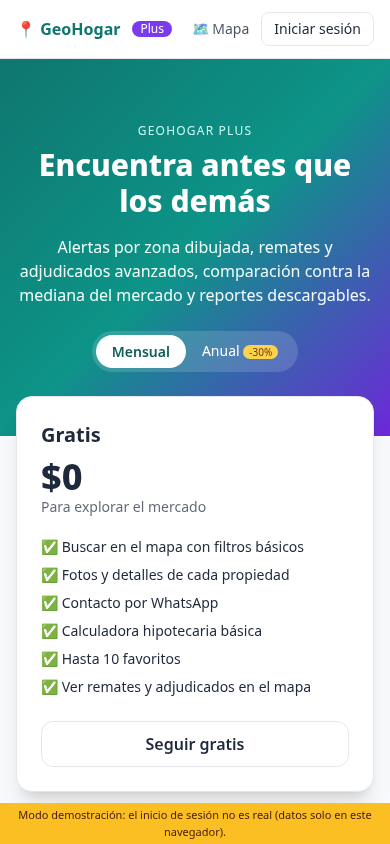
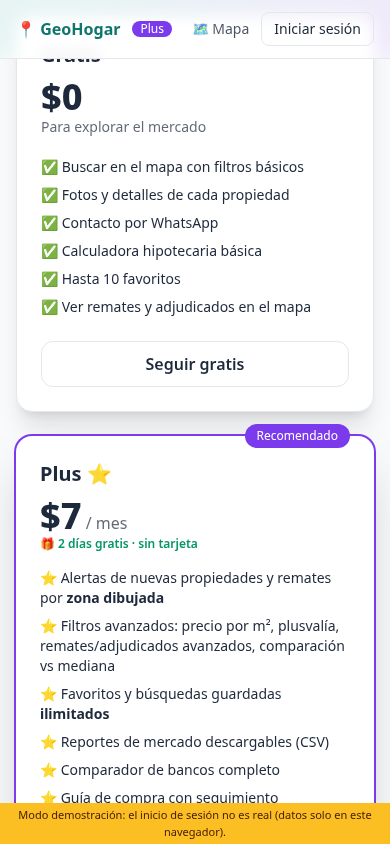
Prueba Plus gratis 2 días, Tilopay (config + Edge Function), precios confirmados

diff --git a/planes.html b/planes.html
@@ -15,30 +15,31 @@
    <ul class="mt-5 space-y-2 text-sm"><li>✅ Buscar en el mapa con filtros básicos</li><li>✅ Fotos y detalles de cada propiedad</li><li>✅ Contacto por WhatsApp</li><li>✅ Calculadora hipotecaria básica</li><li>✅ Hasta 10 favoritos</li><li>✅ Ver remates y adjudicados en el mapa</li></ul>
    <a href="index.html" class="mt-6 block text-center border rounded-xl py-2.5 font-semibold dark:border-slate-600">Seguir gratis</a></div>
   <div class="relative bg-white dark:bg-slate-800 rounded-2xl shadow-2xl p-6 ring-2 ring-violet-600"><span class="absolute -top-3 right-6 bg-violet-600 text-white text-xs rounded-full px-3 py-1">Recomendado</span>
-   <h2 class="text-xl font-bold">Plus ⭐</h2><p class="mt-2"><span id="precio" class="text-4xl font-extrabold"></span> <span id="per" class="opacity-70"></span></p><p class="text-[11px] text-amber-600 font-semibold" id="nota"></p>
+   <h2 class="text-xl font-bold">Plus ⭐</h2><p class="mt-2"><span id="precio" class="text-4xl font-extrabold"></span> <span id="per" class="opacity-70"></span></p><p class="text-xs text-emerald-600 font-semibold">🎁 2 días gratis · sin tarjeta</p><p id="trialBadge" class="hidden mt-2 text-xs bg-violet-100 dark:bg-violet-900/50 text-violet-800 dark:text-violet-200 rounded-full px-3 py-1 inline-block"></p>
    <ul class="mt-4 space-y-2 text-sm"><li>⭐ Alertas de nuevas propiedades y remates por <b>zona dibujada</b></li><li>⭐ Filtros avanzados: precio por m², plusvalía, remates/adjudicados avanzados, comparación vs mediana</li><li>⭐ Favoritos y búsquedas guardadas <b>ilimitados</b></li><li>⭐ Reportes de mercado descargables (CSV)</li><li>⭐ Comparador de bancos completo</li><li>⭐ Guía de compra con seguimiento</li><li>⭐ Propiedades destacadas para agentes</li></ul>
-   <button id="cta" class="mt-6 w-full bg-violet-600 hover:bg-violet-700 text-white rounded-xl py-3 font-bold">Probar Plus</button><p id="ctaMsg" class="text-xs mt-2 text-center"></p></div>
+   <button id="cta" class="mt-6 w-full bg-violet-600 hover:bg-violet-700 text-white rounded-xl py-3 font-bold">🎁 Prueba Plus gratis 2 días</button><div class="grid grid-cols-2 gap-2 mt-2"><button id="subM" class="border-2 border-violet-600 text-violet-700 dark:text-violet-300 rounded-xl py-2 text-sm font-semibold">Suscribirme mensual · $7</button><button id="subA" class="border-2 border-violet-600 text-violet-700 dark:text-violet-300 rounded-xl py-2 text-sm font-semibold">Suscribirme anual · $59</button></div><p class="text-[11px] text-center opacity-60 mt-1">Pago seguro con Tilopay · cancela cuando quieras</p><p id="ctaMsg" class="text-xs mt-2 text-center"></p></div>
  </div>
  <h2 class="text-2xl font-bold mt-14 mb-4 text-center">Comparación de funciones</h2>
  <div class="overflow-x-auto bg-white dark:bg-slate-800 rounded-2xl shadow"><table class="w-full text-sm"><thead class="bg-slate-100 dark:bg-slate-700"><tr><th class="text-left p-3">Función</th><th class="p-3">Gratis</th><th class="p-3 text-violet-600">Plus</th></tr></thead><tbody id="tabla"></tbody></table></div>
  <h2 class="text-2xl font-bold mt-14 mb-4 text-center">Preguntas frecuentes</h2>
  <div id="faq" class="max-w-3xl mx-auto space-y-2"></div>
- <div class="mt-14 text-center bg-gradient-to-r from-teal-600 to-violet-600 text-white rounded-2xl p-8"><h3 class="text-2xl font-bold">¿Listo para buscar con ventaja?</h3><button id="cta2" class="mt-4 bg-white text-violet-700 font-bold rounded-xl px-6 py-3">Probar Plus</button></div>
+ <div class="mt-14 text-center bg-gradient-to-r from-teal-600 to-violet-600 text-white rounded-2xl p-8"><h3 class="text-2xl font-bold">¿Listo para buscar con ventaja?</h3><button id="cta2" class="mt-4 bg-white text-violet-700 font-bold rounded-xl px-6 py-3">🎁 Prueba Plus gratis 2 días</button><p class="text-xs mt-2 text-white/80">Sin tarjeta. Al terminar vuelves a Gratis automáticamente.</p></div>
 </main>
 <script>
 const $=i=>document.getElementById(i),P=GH_CONFIG.precios;let per='mensual';
 const ah=Math.round((1-P.anual/(P.mensual*12))*100);$('ahorro').textContent='-'+ah+'%';
 function upd(){document.querySelectorAll('.per').forEach(b=>b.className='per rounded-full px-4 py-1.5 '+(b.dataset.p===per?'bg-white text-teal-800 font-semibold':''));
- $('precio').textContent='$'+(per==='mensual'?P.mensual:P.anual);$('per').textContent=per==='mensual'?'/ mes':'/ año (≈ $'+(P.anual/12).toFixed(2)+'/mes)';$('nota').textContent='* '+P.nota+' ('+P.moneda+'); el precio final se definirá al lanzar.'}
+ $('precio').textContent='$'+(per==='mensual'?P.mensual:P.anual);$('per').textContent=per==='mensual'?'/ mes':'/ año (≈ $'+(P.anual/12).toFixed(2)+'/mes)'}
 document.querySelectorAll('.per').forEach(b=>b.onclick=()=>{per=b.dataset.p;upd()});upd();
 const F=[['Mapa con propiedades, remates y adjudicados','✅','✅'],['Fotos, detalles y WhatsApp','✅','✅'],['Calculadora hipotecaria','Básica','Completa + comparador de todos los bancos'],['Favoritos','Hasta 10','Ilimitados'],['Búsquedas guardadas','—','Ilimitadas'],['Alertas por zona dibujada (propiedades y remates)','—','✅'],['Filtros de remates/adjudicados (fecha, base máx., gravámenes, descuento)','—','✅'],['Precio por m² y comparación vs mediana','—','✅'],['Capa de plusvalía avanzada','—','✅'],['Reportes de mercado descargables','—','✅ CSV'],['Guía de compra con seguimiento','Checklist','Checklist + seguimiento por propiedad'],['Propiedades destacadas (agentes)','—','✅']];
 $('tabla').innerHTML=F.map(([a,b,c],i)=>`<tr class="${i%2?'bg-slate-50 dark:bg-slate-800/60':''}"><td class="p-3">${a}</td><td class="p-3 text-center">${b}</td><td class="p-3 text-center font-semibold text-violet-700 dark:text-violet-300">${c}</td></tr>`).join('');
-const Q=[['¿Puedo cancelar cuando quiera?','Sí. Al cancelar conservas Plus hasta el final del periodo pagado y luego vuelves al plan Gratis sin perder tus favoritos (los primeros 10 siguen visibles).'],['¿Qué medios de pago aceptan?','El cobro se hará con un proveedor externo (Stripe, PayPal o Tilopay); GeoHogar no guarda datos de tarjeta.'],['¿Los precios son definitivos?','No. Los montos mostrados son precios de ejemplo mientras se lanza el servicio.'],['¿Las alertas funcionan para remates?','Sí: dibujas una zona en el mapa y te avisamos por correo cuando aparezcan propiedades o remates nuevos dentro de ella.'],['¿Los datos son oficiales?','Provienen de portales públicos (Encuentra24, Anuntico, edictos de remates y bancos). Siempre confirma en la fuente original y con un abogado.'],['¿Qué pasa con mis datos?','Tu cuenta solo guarda correo, favoritos, búsquedas y alertas. Puedes borrarla cuando quieras desde tu cuenta.']];
+const Q=[['¿Cómo funciona la prueba gratis?','Inicia sesión y toca «Prueba Plus gratis 2 días»: tienes todas las funciones Plus durante 48 horas, sin tarjeta. Es una sola prueba por cuenta. Al terminar vuelves al plan Gratis automáticamente (no se cobra nada); tus favoritos y búsquedas quedan guardados.'],['¿Puedo cancelar cuando quiera?','Sí. Al cancelar conservas Plus hasta el final del periodo pagado y luego vuelves al plan Gratis sin perder tus favoritos (los primeros 10 siguen visibles).'],['¿Qué medios de pago aceptan?','Tarjetas de crédito y débito mediante Tilopay (Costa Rica), con cobro recurrente mensual ($7) o anual ($59). GeoHogar no guarda datos de tarjeta.'],['¿Las alertas funcionan para remates?','Sí: dibujas una zona en el mapa y te avisamos por correo cuando aparezcan propiedades o remates nuevos dentro de ella.'],['¿Los datos son oficiales?','Provienen de portales públicos (Encuentra24, Anuntico, edictos de remates y bancos). Siempre confirma en la fuente original y con un abogado.'],['¿Qué pasa con mis datos?','Tu cuenta solo guarda correo, favoritos, búsquedas y alertas. Puedes borrarla cuando quieras desde tu cuenta.']];
 $('faq').innerHTML=Q.map(([q,a])=>`<details class="bg-white dark:bg-slate-800 rounded-xl p-4 shadow-sm"><summary class="font-semibold cursor-pointer">${q}</summary><p class="text-sm mt-2 opacity-80">${a}</p></details>`).join('');
-async function cta(){const u=await Auth.user();if(!u){location.href='login.html?next=planes.html#registro';return}
- if(GH_CONFIG.checkoutUrl){location.href=GH_CONFIG.checkoutUrl+(GH_CONFIG.checkoutUrl.includes('?')?'&':'?')+'client_reference_id='+encodeURIComponent(u.id)+'&prefilled_email='+encodeURIComponent(u.email)+'&plan='+per;return}
- if(Auth.demo){await Auth.setDemoPlan('plus');$('ctaMsg').textContent='Modo demo: Plus activado en este navegador (sin cobro).';$('ctaMsg').className='text-xs mt-2 text-center text-emerald-600';setTimeout(()=>location.href='cuenta.html',900)}
- else $('ctaMsg').textContent='El pago aún no está configurado (CONFIG.checkoutUrl).'}
-$('cta').onclick=cta;$('cta2').onclick=cta;
-Auth.user().then(u=>{if(u){$('acct').textContent=(u.plan==='plus'?'⭐ ':'')+u.nombre;$('acct').href='cuenta.html';if(u.plan==='plus'){$('cta').textContent='Ya tienes Plus ✓';}}});Auth.banner();
+const msg=(t,ok)=>{$('ctaMsg').textContent=t;$('ctaMsg').className='text-xs mt-2 text-center '+(ok?'text-emerald-600':'text-red-600')};
+async function cta(){try{const u=await Auth.user();if(!u){location.href='login.html?next=planes.html#registro';return}
+ if(u.pagado){location.href='cuenta.html';return}
+ await Auth.startTrial();msg('¡Prueba activada! Tienes Plus por 2 días.',true);setTimeout(()=>location.href='index.html',1000)}catch(e){msg(e.message)}}
+async function sub(p){try{const r=await Auth.subscribe(p);if(r==='demo'){msg('Modo demo: suscripción '+p+' simulada (sin cobro).',true);setTimeout(()=>location.href='cuenta.html',900)}}catch(e){msg(e.message)}}
+$('cta').onclick=cta;$('cta2').onclick=cta;$('subM').onclick=()=>sub('mensual');$('subA').onclick=()=>sub('anual');
+Auth.user().then(u=>{if(u){$('acct').textContent=(u.plan==='plus'?'⭐ ':'')+u.nombre;$('acct').href='cuenta.html';if(u.pagado){$('cta').textContent='Ya tienes Plus ✓ — ver mi cuenta'}else if(u.trial_activo){$('cta').textContent='Prueba activa ✓';$('cta').disabled=true;$('trialBadge').textContent='⏳ '+Auth.pruebaTexto(u);$('trialBadge').classList.remove('hidden')}else if(u.trial_used){$('cta').textContent='Prueba ya utilizada · suscríbete abajo';$('cta').disabled=true;$('cta').classList.add('opacity-60');$('cta2').textContent='Suscribirme';$('cta2').onclick=()=>sub(per)}}});Auth.banner();
 </script></body></html>

diff --git a/index.html b/index.html
@@ -19,7 +19,7 @@
  <div class="flex gap-2 items-center">
   <b class="text-teal-700 dark:text-teal-400 whitespace-nowrap">📍 GeoHogar</b>
   <input id="q" placeholder="Ciudad, provincia o zona…" class="flex-1 min-w-0 px-3 py-1.5 rounded-lg border dark:bg-slate-700 dark:border-slate-600">
-  <span id="upd" class="hidden sm:inline text-[10px] bg-teal-100 dark:bg-teal-900 text-teal-800 dark:text-teal-200 px-2 py-0.5 rounded-full whitespace-nowrap"></span><a href="planes.html" id="bPlus" class="px-2 py-1.5 rounded-lg bg-violet-600 text-white whitespace-nowrap text-xs font-semibold">⭐<span class="hidden sm:inline"> Plus</span></a><a href="login.html" id="bUser" class="px-2 py-1.5 rounded-lg border dark:border-slate-600 whitespace-nowrap flex items-center gap-1" title="Cuenta">👤<span class="hidden lg:inline text-xs">Entrar</span></a><button id="bGuide" class="px-2 py-1.5 rounded-lg border dark:border-slate-600 whitespace-nowrap" title="Guía de compra">📋<span class="hidden lg:inline"> Guía de compra</span></button><button id="tgFilters" class="md:hidden px-2 py-1.5 rounded-lg border dark:border-slate-600" aria-label="Filtros">⚙</button>
+  <span id="upd" class="hidden sm:inline text-[10px] bg-teal-100 dark:bg-teal-900 text-teal-800 dark:text-teal-200 px-2 py-0.5 rounded-full whitespace-nowrap"></span><a href="cuenta.html" id="bTrial" class="hidden px-2 py-1 rounded-full bg-violet-100 dark:bg-violet-900/60 text-violet-800 dark:text-violet-200 whitespace-nowrap text-[11px] font-semibold"></a><a href="planes.html" id="bPlus" class="px-2 py-1.5 rounded-lg bg-violet-600 text-white whitespace-nowrap text-xs font-semibold">⭐<span class="hidden sm:inline"> Plus</span></a><a href="login.html" id="bUser" class="px-2 py-1.5 rounded-lg border dark:border-slate-600 whitespace-nowrap flex items-center gap-1" title="Cuenta">👤<span class="hidden lg:inline text-xs">Entrar</span></a><button id="bGuide" class="px-2 py-1.5 rounded-lg border dark:border-slate-600 whitespace-nowrap" title="Guía de compra">📋<span class="hidden lg:inline"> Guía de compra</span></button><button id="tgFilters" class="md:hidden px-2 py-1.5 rounded-lg border dark:border-slate-600" aria-label="Filtros">⚙</button>
   <button id="tgDark" class="px-2 py-1.5 rounded-lg border dark:border-slate-600" aria-label="Modo oscuro">🌓</button>
  </div>
  <div id="filters" class="hidden md:flex flex-wrap gap-2 items-center mt-2">
@@ -287,11 +287,15 @@ const App={all:[],visible:[],
 const Plus={user:null,plus:false,favs:[],rf:null,
  async init(){this.user=await Auth.user();this.plus=!!this.user&&this.user.plan==='plus';this.favs=await Auth.favoritos();
   const b=$('bUser');if(this.user){b.href='cuenta.html';b.innerHTML=`<span class="w-6 h-6 rounded-full ${this.plus?'bg-violet-600':'bg-teal-600'} text-white text-xs font-bold flex items-center justify-center">${esc(this.user.nombre[0].toUpperCase())}</span><span class="hidden lg:inline text-xs">${esc(this.user.nombre)}${this.plus?' ⭐':''}</span>`}
-  if(this.plus){$('bPlus').innerHTML='⭐<span class="hidden sm:inline"> Plus activo</span>';document.querySelectorAll('.lk').forEach(x=>x.remove())}
-  $('bSave').onclick=()=>this.gate('Búsquedas guardadas y alertas por zona',()=>this.save());$('bRep').onclick=()=>this.gate('Reportes de mercado descargables',()=>this.report());
+  const t=$('bTrial');if(this.user&&this.user.trial_activo){t.textContent='⏳ Te quedan '+Auth.horasPrueba(this.user)+' h de prueba';t.title=Auth.pruebaTexto(this.user);t.classList.remove('hidden');
+   clearTimeout(this._tt);this._tt=setTimeout(()=>location.reload(),Math.min(new Date(this.user.trial_ends_at)-Date.now()+1000,36e5))}else t.classList.add('hidden');
+  if(this.user&&this.user.trial_used&&!this.plus&&localStorage.getItem('gh_trial_fin_visto')!==this.user.email){localStorage.setItem('gh_trial_fin_visto',this.user.email);setTimeout(()=>this.upsell('Tu prueba de 2 días terminó. Volviste al plan Gratis;',true),1500)}
+  if(this.plus){$('bPlus').innerHTML=this.user.trial_activo?'⭐<span class="hidden sm:inline"> Suscribirme</span>':'⭐<span class="hidden sm:inline"> Plus activo</span>';document.querySelectorAll('.lk').forEach(x=>x.remove())}
+  if(this._ok)return;this._ok=1;$('bSave').onclick=()=>this.gate('Búsquedas guardadas y alertas por zona',()=>this.save());$('bRep').onclick=()=>this.gate('Reportes de mercado descargables',()=>this.report());
   $('bRemAdv').onclick=()=>this.gate('Filtros avanzados de remates y adjudicados',()=>this.remAdv());Auth.banner()},
- upsell(f){UI.modal(`<div class="text-center"><div class="text-5xl">🔒</div><h2 class="text-xl font-bold mt-2">${esc(f)} es parte de GeoHogar Plus</h2><p class="text-sm opacity-80 mt-2">Alertas por zona dibujada, filtros avanzados, favoritos ilimitados, reportes y más.</p>
-  <div class="mt-4 flex gap-2 justify-center"><a href="planes.html" class="bg-violet-600 text-white rounded-xl px-4 py-2 font-semibold">Ver planes ⭐</a>${this.user?'':'<a href="login.html?next=index.html" class="border rounded-xl px-4 py-2">Iniciar sesión</a>'}</div>${Auth.demo?'<p class="text-[11px] mt-3 text-amber-600">Modo demo: puedes activar Plus gratis desde la página de planes.</p>':''}</div>`)},
+ upsell(f,fin){const u=this.user,trial=!u||!u.trial_used;UI.modal(`<div class="text-center"><div class="text-5xl">${fin?'⏰':'🔒'}</div><h2 class="text-xl font-bold mt-2">${esc(f)} ${fin?'sigue con Plus por $7/mes':'es parte de GeoHogar Plus'}</h2><p class="text-sm opacity-80 mt-2">Alertas por zona dibujada, filtros avanzados, favoritos ilimitados, reportes y más.</p>
+  <div class="mt-4 flex flex-wrap gap-2 justify-center">${trial?`<button id="upTrial" class="bg-violet-600 text-white rounded-xl px-4 py-2 font-semibold">🎁 Prueba Plus gratis 2 días</button><a href="planes.html" class="border rounded-xl px-4 py-2">Ver planes</a>`:`<a href="planes.html" class="bg-violet-600 text-white rounded-xl px-4 py-2 font-semibold">Suscribirme · $7/mes o $59/año</a>`}</div><p class="text-[11px] mt-2 opacity-70">${trial?'Sin tarjeta · una prueba por cuenta'+(u?'':' · requiere iniciar sesión'):'Pago seguro con Tilopay'}</p><p id="upMsg" class="text-xs mt-1 text-red-600"></p></div>`);
+  $('upTrial')&&($('upTrial').onclick=async()=>{if(!this.user){location.href='login.html?next=index.html#registro';return}try{await Auth.startTrial();UI.close();await this.init()}catch(e){$('upMsg').textContent=e.message}})},
  gate(f,fn){this.plus?fn():this.upsell(f)},
  heart(p){const on=this.favs.includes(p.id);return `<button id="cFav" class="absolute top-2 right-12 bg-white/90 rounded-full w-8 h-8 text-lg" title="Favorito">${on?'❤':'🤍'}</button>`},
  async fav(p){try{const on=await Auth.toggleFavorito(p.id);this.favs=await Auth.favoritos();$('cFav').textContent=on?'❤':'🤍'}

diff --git a/js/auth.js b/js/auth.js
@@ -2,7 +2,7 @@
 (function () {
   const C = window.GH_CONFIG || {};
   const DEMO = !(C.supabaseUrl && C.supabaseAnonKey);
-  const K = { s: 'gh_demo_session', u: 'gh_demo_users', fav: 'gh_favoritos', bus: 'gh_busquedas' };
+  const K = { tr: 'gh_demo_trials', s: 'gh_demo_session', u: 'gh_demo_users', fav: 'gh_favoritos', bus: 'gh_busquedas' };
   let sb = null;
   const j = (k, d) => { try { return JSON.parse(localStorage.getItem(k)) ?? d } catch { return d } };
   const listeners = [];
@@ -20,11 +20,14 @@
     demo: DEMO,
     onChange(f) { listeners.push(f) },
     async user() {
-      if (DEMO) { const s = j(K.s, null); return s ? { ...s, demo: true } : null }
+      if (DEMO) { const s = j(K.s, null); if (!s) return null; const t = j(K.tr, {})[s.email]; const ends = t ? new Date(t) : null;
+        const pago = s.plan === 'plus' && (!s.plus_until || new Date(s.plus_until) > new Date()); const trial = !!ends && ends > new Date();
+        return { ...s, demo: true, trial_used: !!t, trial_ends_at: t || null, trial_activo: trial && !pago, pagado: pago, plan: pago || trial ? 'plus' : 'gratis' } }
       const c = await sbClient(); const { data } = await c.auth.getUser(); const u = data.user; if (!u) return null;
-      const { data: p } = await c.from('profiles').select('plan,plus_until,nombre').eq('id', u.id).maybeSingle();
-      const plus = p && p.plan === 'plus' && (!p.plus_until || new Date(p.plus_until) > new Date());
-      return { id: u.id, email: u.email, nombre: (p && p.nombre) || u.email.split('@')[0], plan: plus ? 'plus' : 'gratis' };
+      const { data: p } = await c.from('profiles').select('plan,plus_until,nombre,trial_used,trial_ends_at').eq('id', u.id).maybeSingle();
+      const pago = !!p && p.plan === 'plus' && (!p.plus_until || new Date(p.plus_until) > new Date());
+      const trial = !!p && !!p.trial_ends_at && new Date(p.trial_ends_at) > new Date();
+      return { id: u.id, email: u.email, nombre: (p && p.nombre) || u.email.split('@')[0], plan: pago || trial ? 'plus' : 'gratis', pagado: pago, trial_activo: trial && !pago, trial_used: !!(p && p.trial_used), trial_ends_at: p && p.trial_ends_at, plus_until: p && p.plus_until };
     },
     async signUp(email, password, nombre) {
       if (DEMO) { const us = j(K.u, {}); if (us[email]) throw new Error('Ya existe una cuenta demo con ese correo.'); us[email] = { password, nombre }; localStorage.setItem(K.u, JSON.stringify(us)); return this._demoLogin(email) }
@@ -49,7 +52,22 @@
     async signOut() { if (DEMO) localStorage.removeItem(K.s); else await (await sbClient()).auth.signOut(); emit() },
     _demoLogin(email) { const us = j(K.u, {}); const prev = j(K.s, {}) || {}; localStorage.setItem(K.s, JSON.stringify({ id: 'demo-' + email, email, nombre: (us[email] && us[email].nombre) || email.split('@')[0], plan: prev.email === email ? prev.plan || 'gratis' : 'gratis' })); emit(); return 'ok' },
     async isPlus() { const u = await this.user(); return !!u && u.plan === 'plus' },
-    async setDemoPlan(plan) { const s = j(K.s, null); if (!s) throw new Error('Inicia sesión primero.'); s.plan = plan; localStorage.setItem(K.s, JSON.stringify(s)); emit() },
+    async startTrial() {
+      const u = await this.user(); if (!u) { const e = new Error('Inicia sesión para empezar la prueba.'); e.code = 'LOGIN'; throw e }
+      if (u.trial_used) throw new Error('Ya usaste tu prueba gratis de Plus en esta cuenta.');
+      if (DEMO) { const t = j(K.tr, {}); t[u.email] = new Date(Date.now() + (C.pruebaDias || 2) * 864e5).toISOString(); localStorage.setItem(K.tr, JSON.stringify(t)); emit(); return t[u.email] }
+      const { data, error } = await (await sbClient()).rpc('start_trial'); if (error) throw error; emit(); return data;
+    },
+    horasPrueba(u) { return u && u.trial_activo ? Math.max(0, Math.ceil((new Date(u.trial_ends_at) - Date.now()) / 36e5)) : 0 },
+    pruebaTexto(u) { const h = this.horasPrueba(u); return h > 24 ? `Te quedan ${h} h de prueba (${Math.floor(h / 24)} d ${h % 24} h)` : `Te quedan ${h} h de prueba` },
+    async subscribe(periodo) {
+      const u = await this.user(); if (!u) { location.href = 'login.html?next=planes.html#registro'; return 'login' }
+      const url = (C.tilopay || {})[periodo === 'anual' ? 'anualUrl' : 'mensualUrl'];
+      if (url) { location.href = url + (url.includes('?') ? '&' : '?') + 'email=' + encodeURIComponent(u.email); return 'redirect' }
+      if (DEMO) { const s = j(K.s, {}); s.plan = 'plus'; s.plus_until = new Date(Date.now() + (periodo === 'anual' ? 365 : 30) * 864e5).toISOString(); localStorage.setItem(K.s, JSON.stringify(s)); emit(); return 'demo' }
+      throw new Error('El pago con Tilopay aún no está configurado (GH_CONFIG.tilopay).');
+    },
+    async setDemoPlan(plan) { const s = j(K.s, null); if (!s) throw new Error('Inicia sesión primero.'); s.plan = plan; if (plan === 'gratis') { delete s.plus_until; const t = j(K.tr, {}); if (t[s.email]) { t[s.email] = new Date(0).toISOString(); localStorage.setItem(K.tr, JSON.stringify(t)) } } localStorage.setItem(K.s, JSON.stringify(s)); emit() },
     /* Favoritos (local en demo / tabla favoritos en Supabase) */
     async favoritos() {
       if (DEMO) return j(K.fav, []);

diff --git a/cuenta.html b/cuenta.html
@@ -7,13 +7,14 @@ const $=i=>document.getElementById(i);
 async function render(){const u=await Auth.user();if(!u){location.href='login.html?next=cuenta.html';return}
  const favs=await Auth.favoritos(),bus=await Auth.busquedas(),plus=u.plan==='plus';
  $('m').innerHTML=`<section class="bg-white dark:bg-slate-800 rounded-2xl shadow p-5 flex items-center gap-4"><div class="w-14 h-14 rounded-full bg-teal-600 text-white flex items-center justify-center text-2xl font-bold">${u.nombre[0].toUpperCase()}</div><div><h1 class="text-xl font-bold">${u.nombre}</h1><p class="text-sm opacity-70">${u.email}</p></div><span class="ml-auto text-sm rounded-full px-3 py-1 ${plus?'bg-violet-600 text-white':'bg-slate-200 dark:bg-slate-700'}">${plus?'⭐ Plus':'Gratis'}</span></section>
- <section class="bg-white dark:bg-slate-800 rounded-2xl shadow p-5"><h2 class="font-bold">Plan</h2><p class="text-sm mt-1">${plus?'Tienes GeoHogar Plus activo.':'Estás en el plan Gratis (hasta '+GH_CONFIG.limiteFavoritosGratis+' favoritos).'}</p>
-  <div class="mt-3 flex gap-2">${plus?(Auth.demo?'<button id="down" class="border rounded-lg px-3 py-1.5 text-sm">Volver a Gratis (demo)</button>':''):'<a href="planes.html" class="bg-violet-600 text-white rounded-lg px-3 py-1.5 text-sm">Mejorar a Plus</a>'}</div></section>
+ <section class="bg-white dark:bg-slate-800 rounded-2xl shadow p-5"><h2 class="font-bold">Plan</h2>${u.trial_activo?`<div class="mt-2 rounded-xl bg-violet-100 dark:bg-violet-900/50 text-violet-800 dark:text-violet-200 p-3 text-sm">⏳ <b>${Auth.pruebaTexto(u)}</b> · termina el ${new Date(u.trial_ends_at).toLocaleString('es-CR')} — luego vuelves a Gratis sin cobro.</div>`:''}
+  <p class="text-sm mt-2">${u.pagado?'Tienes GeoHogar Plus activo'+(u.plus_until?' hasta el '+new Date(u.plus_until).toLocaleDateString('es-CR'):'')+'.':u.trial_activo?'Estás probando Plus gratis.':'Estás en el plan Gratis (hasta '+GH_CONFIG.limiteFavoritosGratis+' favoritos).'+(u.trial_used?' Tu prueba gratis ya fue utilizada.':'')}</p>
+  <div class="mt-3 flex flex-wrap gap-2">${u.pagado?(Auth.demo?'<button id="down" class="border rounded-lg px-3 py-1.5 text-sm">Volver a Gratis (demo)</button>':'<span class="text-xs opacity-70">Para cancelar, usa el enlace de tu correo de Tilopay o escríbenos.</span>'):(!u.trial_used?'<button id="trial" class="bg-violet-600 text-white rounded-lg px-3 py-1.5 text-sm">🎁 Prueba Plus gratis 2 días</button>':'')+'<a href="planes.html" class="border border-violet-600 text-violet-700 dark:text-violet-300 rounded-lg px-3 py-1.5 text-sm">Suscribirme · $7/mes o $59/año</a>'+(Auth.demo&&u.trial_activo?'<button id="down" class="border rounded-lg px-3 py-1.5 text-sm">Terminar prueba (demo)</button>':'')}</div></section>
  <section class="bg-white dark:bg-slate-800 rounded-2xl shadow p-5"><h2 class="font-bold">❤ Favoritos (${favs.length}${plus?'':' / '+GH_CONFIG.limiteFavoritosGratis})</h2><p class="text-sm opacity-70 mt-1">${favs.length?favs.slice(0,30).join(', '):'Aún no tienes favoritos: toca el corazón en la ficha de una propiedad.'}</p></section>
  <section class="bg-white dark:bg-slate-800 rounded-2xl shadow p-5"><h2 class="font-bold">🔔 Búsquedas guardadas y alertas ${plus?'':'<span class="text-xs bg-violet-100 text-violet-700 rounded-full px-2">🔒 Plus</span>'}</h2>${bus.length?'<ul class="text-sm mt-2 list-disc ml-5">'+bus.map(b=>'<li>'+(b.nombre||'Búsqueda')+(b.alerta?' · alerta activa':'')+'</li>').join('')+'</ul>':'<p class="text-sm opacity-70 mt-1">Ninguna todavía.</p>'}</section>
  <section id="np" class="bg-white dark:bg-slate-800 rounded-2xl shadow p-5 ${location.hash==='#nueva-clave'?'':'hidden'}"><h2 class="font-bold">Nueva contraseña</h2><input id="pw" type="password" minlength="6" class="mt-2 w-full px-3 py-2 rounded-lg border dark:bg-slate-700"><button id="pwB" class="mt-2 bg-teal-600 text-white rounded-lg px-3 py-1.5 text-sm">Guardar</button><p id="pwM" class="text-sm mt-1"></p></section>
  <button id="out" class="w-full border border-red-500 text-red-600 rounded-xl py-2.5 font-semibold">Cerrar sesión</button>`;
- $('out').onclick=async()=>{await Auth.signOut();location.href='index.html'};if($('down'))$('down').onclick=async()=>{await Auth.setDemoPlan('gratis');render()};
+ if($('trial'))$('trial').onclick=async()=>{try{await Auth.startTrial();render()}catch(e){alert(e.message)}};$('out').onclick=async()=>{await Auth.signOut();location.href='index.html'};if($('down'))$('down').onclick=async()=>{await Auth.setDemoPlan('gratis');render()};
  $('pwB').onclick=async()=>{try{$('pwM').textContent=await Auth.updatePassword($('pw').value)}catch(e){$('pwM').textContent=e.message}}}
-render();Auth.banner();
+render();Auth.banner();setInterval(render,6e4);
 </script></body></html>

diff --git a/js/config.js b/js/config.js
@@ -3,8 +3,11 @@
 window.GH_CONFIG = {
   supabaseUrl: '',          // ej. 'https://xxxx.supabase.co'  (vacío = modo demo)
   supabaseAnonKey: '',      // clave anon pública del proyecto
-  checkoutUrl: '',          // ej. enlace de pago Stripe / PayPal / Tilopay (vacío = demo)
-  precios: { mensual: 7, anual: 59, moneda: 'USD', nota: 'precio de ejemplo' },
+  // Tilopay (solo URLs PÚBLICAS de registro a los planes recurrentes; nunca apiuser/password/key aquí)
+  // Formato que devuelve Tilopay (recurrentUrl): https://app.tilopay.com/admin/recurrent/register/<ID>
+  tilopay: { mensualUrl: '', anualUrl: '' },   // vacío = modo demo
+  precios: { mensual: 7, anual: 59, moneda: 'USD' },
+  pruebaDias: 2,
   limiteFavoritosGratis: 10,
   redirectTras: 'index.html'
 };
